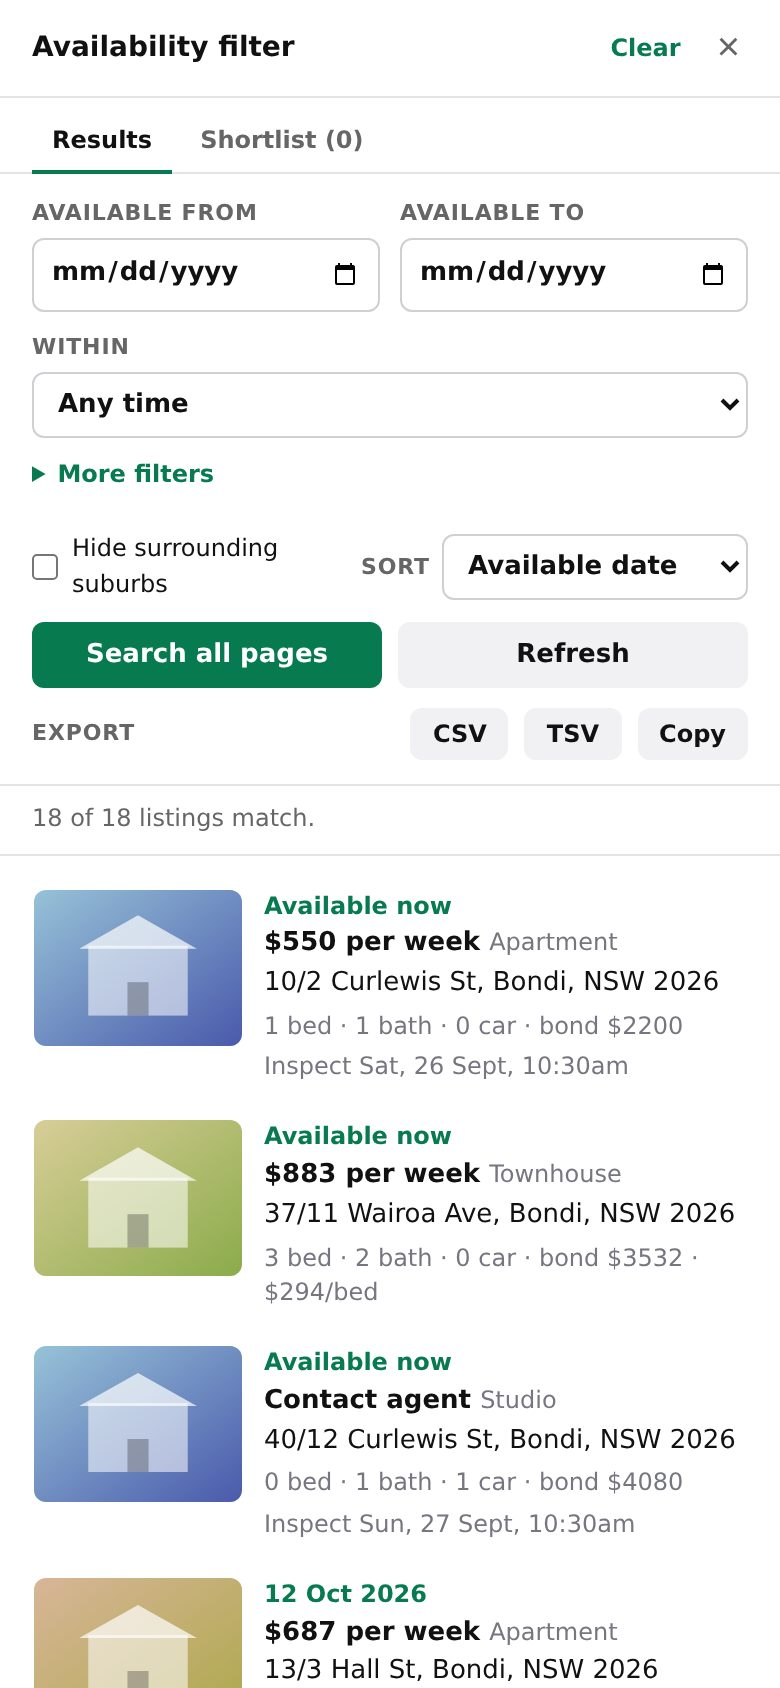
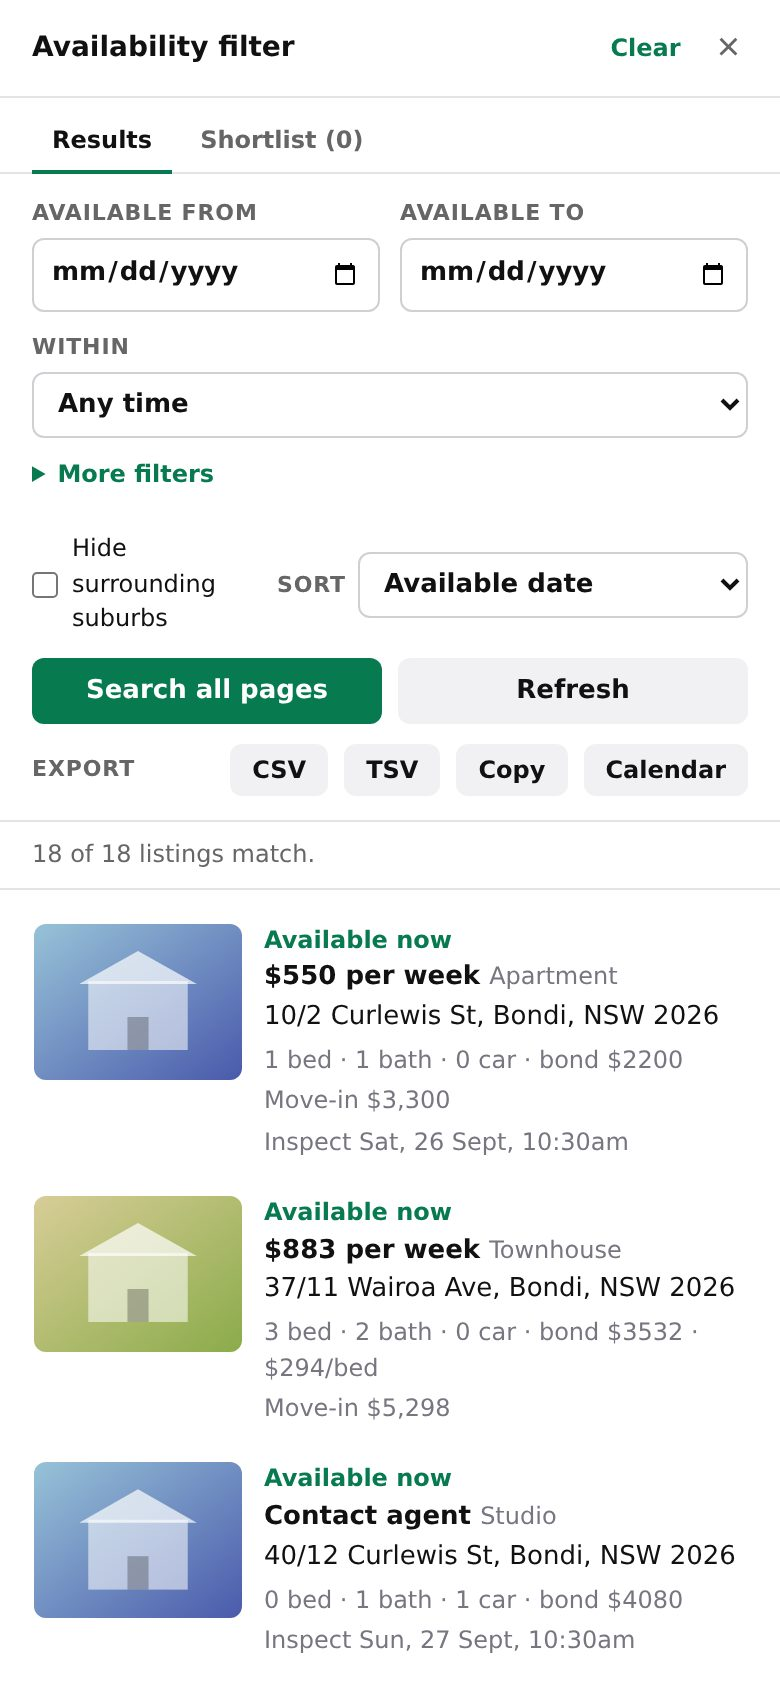
Bump 2.4.0; docs; refresh screenshots

diff --git a/rea-availability-filter.user.js b/rea-availability-filter.user.js
@@ -1,7 +1,7 @@
 // ==UserScript==
 // @name         REA Availability Filter
 // @namespace    https://github.com/cpwillis/rea-enhancement
-// @version      2.3.0
+// @version      2.4.0
 // @description  Availability-date filtering and sorting, extra filters, cross-page merging, on-card availability badges and CSV/TSV export for realestate.com.au rental searches.
 // @author       cpwillis
 // @homepageURL  https://github.com/cpwillis/rea-enhancement

diff --git a/README.md b/README.md
@@ -20,9 +20,11 @@ Updates are automatic: Tampermonkey checks `@updateURL` (the file on `main`) and
 
 **Filter and sort across every page**
 - Available from / to, or a rolling window (within 2/4/8/12 weeks) that stays current as a saved setting. Handles "Available now", `12 Oct 2026`, `Mon 12th Oct` (year inferred), `October 12`, `1st of December`, `12/10/2026`. Past dates count as available now.
-- Weekly rent min/max (monthly and annual rents converted to weekly), min beds/baths/cars, property type, photo required, inspection on a given day.
+- Weekly rent min/max (monthly and annual rents converted to weekly), max move-in cost, min beds/baths/cars, property type, photo required, inspection on a given day, listed over 3 weeks ago.
 - Keywords over headline, description and address: `pool -studio "north facing"`.
-- Sort by available date, price, price per bed, most beds, next inspection, newest listed.
+- Sort by available date, price, price per bed, best value vs median, most beds, next inspection, newest first.
+- **Move-in cost** (bond + 2 weeks' rent) on every listing; bonds above 4 weeks' rent are flagged.
+- **Rent vs median** for the same bed count in your results (eg "12% below median 2-bed").
 - Walks every results page of the current search (max 20), dedupes, and says when a search is too broad to read fully.
 
 **On REA's own result cards**
@@ -33,14 +35,14 @@ Updates are automatic: Tampermonkey checks `@updateURL` (the file on `main`) and
 
 **Shortlist, hide, new, price changes**
 - Star a listing to shortlist it, or hide one you've ruled out. Both persist in your browser.
-- The **Shortlist** tab collects starred listings from every search you've run, with a private note per listing.
+- The **Shortlist** tab collects starred listings from every search you've run, with a private note and an **application status** (to inspect, inspected, applied, approved, declined) per listing; filter by status and export it.
 - **Backup / Restore** the shortlist, hidden listings, notes and remembered searches as a JSON file, eg to move to another browser.
 - **Remembers each search between visits** (on by default; a setting turns it off and forgets what's stored). Coming back shows the saved results straight away, and **Refresh** fetches current listings and diffs them: listings added since your last visit are tagged **new** (filter: "New since last visit only"), and ones taken down are counted and can be shown greyed out. Sort **Newest first** to see additions in order of listing.
 - Price changes show "was $X".
 
 ![Shortlist and price-change tags](docs/screenshots/shortlist.jpg)
 
-**Export**: CSV (opens cleanly in Excel), TSV, or copy to clipboard for Google Sheets. Includes weekly rent, $/bed, inspections, shortlist and previous price.
+**Export**: CSV (opens cleanly in Excel), TSV, copy to clipboard for Google Sheets, or **Calendar** (.ics) with every upcoming inspection time for your results or shortlist. Spreadsheet columns include weekly rent, $/bed, move-in cost, vs-median, inspections, shortlist, application status and previous price.
 
 **Dark mode and mobile width** follow your system settings. Keyboard and screen-reader friendly (labelled controls, focus kept where you were, full-screen drawer is modal on phones).
 

diff --git a/CHANGELOG.md b/CHANGELOG.md
@@ -2,6 +2,15 @@
 
 Versions match the userscript's `@version`; installs auto-update from `main` when it increases.
 
+## 2.4.0
+
+- Move-in cost (bond + 2 weeks) per listing, bond-over-4-weeks flag, max move-in filter.
+- Application status per shortlisted listing, shortlist status filter, CSV export from the Shortlist tab.
+- Calendar (.ics) export of upcoming inspections, from results or the shortlist.
+- Rent vs median for the same bed count; "best value" sort; "listed over 3 weeks ago" filter.
+- Fixed: stale rows could reappear under "Nothing matches"; touch screens hid shortlist/hide buttons; a corrupt saved setting or reshaped REA item list could stop the script; Clear re-enabled "Remember results"; "30 s ago" read "1 min ago".
+- Internals: shared helpers replace duplicated row/summary/storage/backup code; pure logic moved above the test guard; named constants; every line covered by unit or browser tests (`npm run coverage`).
+
 ## 2.3.0
 
 - Remembers results per search between visits; Refresh tags listings new since the last visit and counts ones no longer listed (optionally shown). "New since last visit only" filter; "Newest first" falls back to first-seen time. Opt-out setting clears stored results.
